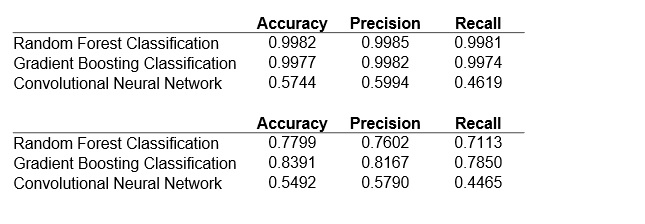
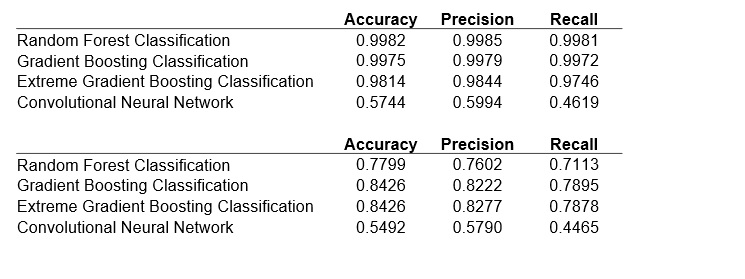
commit

diff --git a/README.md b/README.md
@@ -185,11 +185,13 @@ Test accuracy: 0.5492; precision: 0.5790; recall: 0.4465.
 With the model properly fitited, the CNN model shows an accuracy of 54.9% for the test set for this image classification study.
 
 
-**Gradient Boost and Random Forest Classifiers**.  Gradient boosting and random forest models for classification were also performed.  The gradient boosting achieved the best accurary of 83.9% on the test set.
+**Random Forest, Gradient Boosting, and Extreme Gradient Classifiers**.  Random forest, gradient boosting, and XGBoost models for classification were also performed.  The gradient boosting and XGBoost models achieved a higher accurary of 83.9% on the test set.
 
 Random forest classifier: best parameters: {'max_depth': None, 'max_features': 'auto', 'min_samples_leaf': 1, 'n_estimators': 300, 'oob_score': True}
 
 Gradient boosting classifier:  best parameters: {'learning_rate': 0.05, 'max_depth': 5, 'max_features': 'auto', 'n_estimators': 4500, 'subsample': 0.15}
+
+XGBoost: best parameters: best parameters: {'colsample_bytree': 0.9, 'gamma': 0.5, 'learning_rate': 0.1, 'max_depth': 7, 'min_child_weight': 1, 'n_estimators': 3500, 'subsample': 0.9}
 
 
 **Supplementary Figure 3**.  A confusion matrix for gradient boosting classification.
